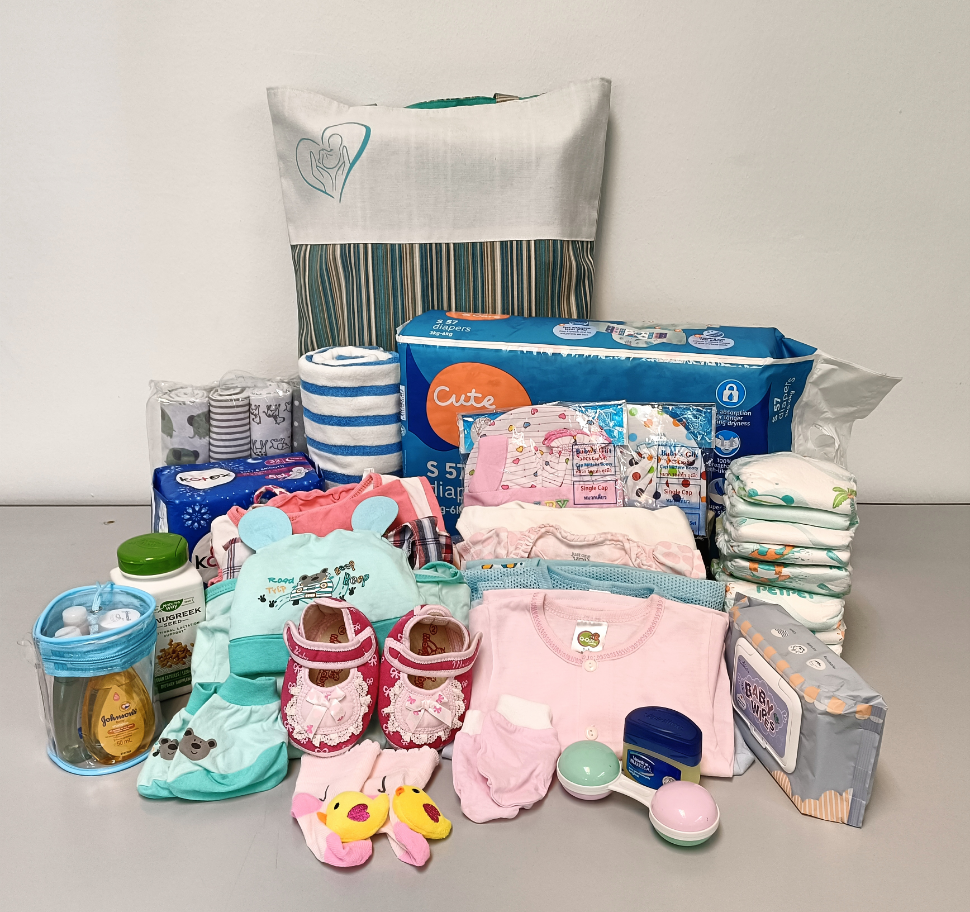
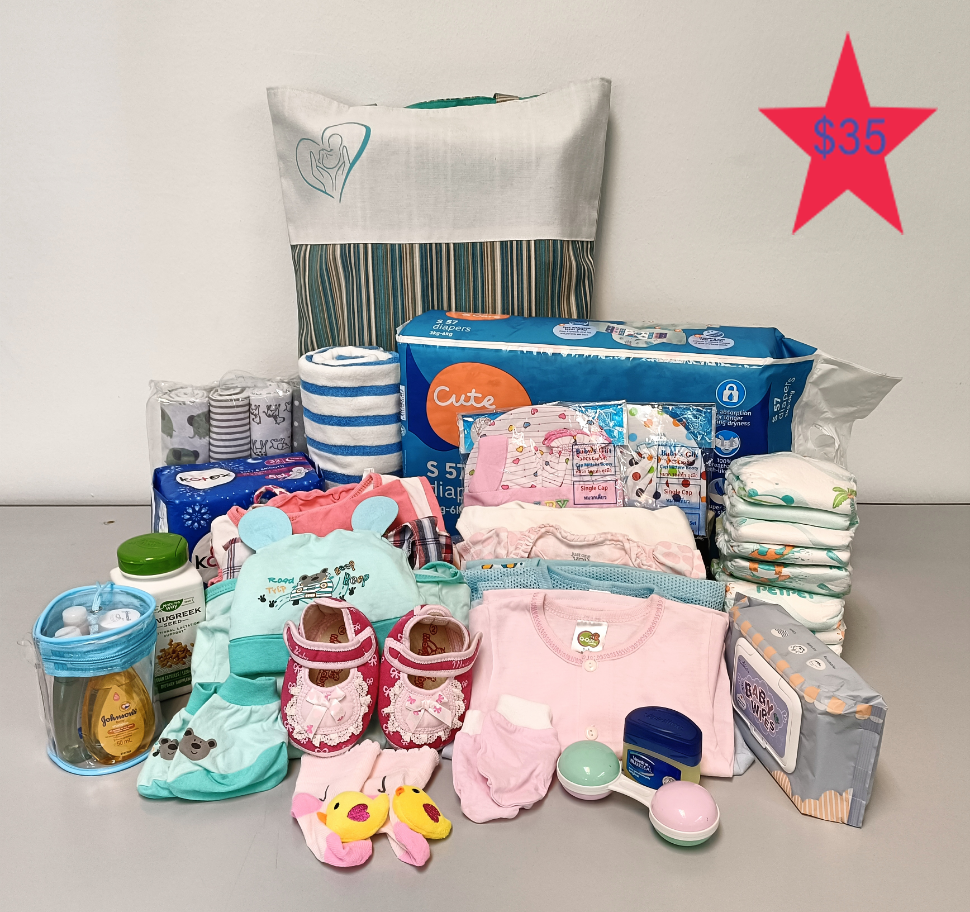
add uodagete

Changed region(s): [[0.7732, 0.0307, 0.9588, 0.2456]]

diff --git a/layouts/_default/goal.html b/layouts/_default/goal.html
@@ -11,7 +11,7 @@
   	<h2 class="text-center">{{.title}} </h2>
     <div class="row row-eq-height my-row">
       {{ range .item }}
-          <div class="border-right col col-lg-4 col-md-12 col-12 py-2 px-5 noborder row mx-0 mt-5">
+          <div class="bg-{{ .bg }} border-right col col-lg-4 col-md-12 col-12 py-5 px-5 noborder row mx-0 mt-lg-5">
             
             	
             		<div class="col-12 col-sm-12 text-lg-center text-left mb-5 ">
@@ -21,12 +21,12 @@
             			<p>{{ .desc  | markdownify}}</p>
 			              
             		</div>
-            		<div class="col-12 col-sm-12 btm-0  text-center">
+            		<div class="col-12 col-sm-12 btm-0 mb-5 text-center">
             			
 			              {{ if .link }}
-				              <a href="{{ .url | absLangURL }}" class="btn btn-{{ .color }}-outline px-5">{{.btn}}</a>
+				              <a href="{{ .url | absLangURL }}" class="btn btn-{{ .color }} px-5">{{.btn}}</a>
 			              {{ else }}
-		              		  <button class="btn btn-{{ .color }}-outline px-5" data-toggle="modal" data-target="#contactus">{{ .btn }}</button>
+		              		  <button class="btn btn-{{ .color }} px-5" data-toggle="modal" data-target="#contactus">{{ .btn }}</button>
 			              {{ end }}
 			            
             		</div>

diff --git a/assets/scss/templates/_goal.scss b/assets/scss/templates/_goal.scss
@@ -178,7 +178,7 @@
     }
   }
   p{
-    color: black;
+    color: white;
   }
   h4{
     color: #F9F9F9;
@@ -188,10 +188,14 @@
     }
   }
   h3{
-    font-size: 1.8rem;
+    font-size: 1.6rem;
     // color: #1A4568;
-    font-weight: normal;
+    font-weight: bold;
+    color: white;
     @include desktop-xl{
+      font-size: 2.2rem;
+    }
+    @include desktop-xxl{
       font-size: 2.5rem;
     }
   }

diff --git a/assets/scss/_buttons.scss b/assets/scss/_buttons.scss
@@ -60,6 +60,18 @@ button:focus {
   color: $green; 
   border: 1px solid $green;
 }
+.btn-red{
+  background: $red;
+  color: white;
+}
+.btn-green{
+  background: $green;
+  color: white;
+}
+.btn-blue{
+  background: $blue;
+  color: white;
+}
 #stupid-donate{
   @include mobile{
     

diff --git a/assets/scss/_common.scss b/assets/scss/_common.scss
@@ -84,6 +84,12 @@ body{
 .bg-green{
   background: $green;
 }
+.bg-red{
+  background: $red;
+}
+.bg-blue{
+  background: $blue;
+}
 .bg-black{
   background: black!important;
 }

diff --git a/content/goal.md b/content/goal.md
@@ -13,20 +13,22 @@ goal:
   title: 'Get Involved Today!'
   item:
   - title: 'GIVE'
-    desc : "<b>YOUR dollars WILL make a difference! </b><br><br>Any amount can change a refugee's circumstance and add hope to their difficult lives.<br><br>$ 25 can provide school fees for 1child for 1month<br><br>$ 30 can provide a 'Hard Times’ food package for a struggling family.<br>$ 35 can provide a baby supplies package to a birthing refugee woman. <br><br>$ 250 can subsidise birth costs (normal or C-Section) as refugees are charged private rates.<br><br>$ 300 provides education for 1child for 1 year.<br><br>$ 500 provides for complete birthing costs (start to finish) for 1 refugee woman/family<br><br><b>When YOUR dollars are combined with our services and care, a refugee’s live is given HOPE.</b>"
+    desc : "<b>YOUR dollars WILL make a difference! </b><br><br>Any amount can change a refugee's circumstance and add hope to their difficult lives.<br><br><b>$</b>25 can provide school fees for 1child for 1month<br><br><b>$</b>35 can provide a baby supplies package to a birthing refugee woman. <br><br><b>$</b>250 can subsidise birth costs (normal or C-Section) as refugees are charged private rates.<br><br><b>$</b>300 provides education for 1child for 1 year.<br><br><b>$</b>500 provides for complete birthing costs (start to finish) for 1 refugee woman/family<br><br><b>When YOUR dollars are combined with our services and care, a refugee’s live is given HOPE.</b>"
     btn : "GIVE"
     url: "give"
-    color: 'red'
+    color: 'blue'
     link: true
+    bg: 'green'
   - title: 'Volunteer'
-    desc: "If YOU have a heart to serve - join our team and volunteer your services!<br><br><br>* Education field: Short term or long term volunteers are needed to help run small learning centres. Need to speak good English and enjoy working with children who are eager to learn. Teaching experience is welcomed but not essential - can train on site.We can also use help with curriculum developement, which can be done online.<br><br>* Mental Health field: Trained Social workers, experience in this field or someone who has this field at heart, but without qualification, can still be of great value in this work.<br><br>* Birthing field: Midwives, Doulas, or the willingness to be trained in these skills, would be most welcome. <br>In all of the above - we need helpers who will be dedicated, flexible and most especially, who have a heart to love, care and respect vulnerable refugees."
+    desc: "<b>If YOU have a heart to serve - join our team and volunteer your services!</b><br><br><br><b>* Education field: </b><br>Short term or long term volunteers are needed to help run small learning centres. Need to speak good English and enjoy working with children who are eager to learn. Teaching experience is welcomed but not essential - can train on site.We can also use help with curriculum developement, which can be done online.<br><br><b>* Mental Health field:</b><br> Trained Social workers, experience in this field or someone who has this field at heart, but without qualification, can still be of great value in this work.<br><br><b>* Birthing field:</b><br> Midwives, Doulas, or the willingness to be trained in these skills, would be most welcome. <br>In all of the above - we need helpers who will be dedicated, flexible and most especially, who have a heart to love, care and respect vulnerable refugees."
     btn: "Contact Us"
     url: "give"
     color: 'green'
-  - title: 'Be a Partners'
-    desc : "The world faces a massive refugee crisis, with more than 200,000 Rohingya refugees within our sphere of influence.<br>With <b>Corporate social responsibility and investment </b> becoming a standard in business strategies, giving back to society and contributing to the community, you have an enormous capacity to support and empower these refugees as full participants in the economy and bring value to society as a whole.<br> <br>This can be recognised as <b>a force for good</b>, creating a positive brand image, attracting talent and investors and increasing brand loyalty in an era when consumers want to see businesses acting as <b>agents of positive change.</b><br>This kind of corporate action says a lot about how they treat their stakeholders.<br><br>As an organization committed to CSR you can partner with us to continue to serve, support, educate and care for these families.<br>Our efforts and services enable organizations to participate through a reliable channel that has proven its dedication to this community over the last 2 years, assisting more than 200 families and which has established several community learning centers. And this is only the beginning. We can do so much more with your support and investment."
+    bg: 'red'
+  - title: 'Corporate Partners'
+    desc : "The world faces a massive refugee crisis, with more than 200,000 Rohingya refugees within our sphere of influence.<br>With <b>Corporate social responsibility and investment </b> becoming a standard in business strategies, giving back to society and contributing to the community, you have an enormous capacity to support and empower these refugees as full participants in the economy and bring value to society as a whole.<br> <br>This can be recognised as <b>a force for good</b>, creating a positive brand image, attracting talent and investors and increasing brand loyalty in an era when consumers want to see businesses acting as <b>agents of positive change.</b><br>This kind of corporate action says a lot about how they treat their stakeholders.<br><br>As an organization committed to CSR you can partner with us to continue to serve, support, educate and care for these families.<br>Our efforts and services enable organizations to participate through a reliable channel that has proven its dedication to this community over the last 2 years, <b>assisting more than 200 families</b> and which has established several community learning centers. And this is only the beginning. We can do so much more with your support and investment."
     btn : "Contact Us"
     url: "give"
-    color: 'green'
-
+    color: 'red'
+    bg: 'blue'
 ---
